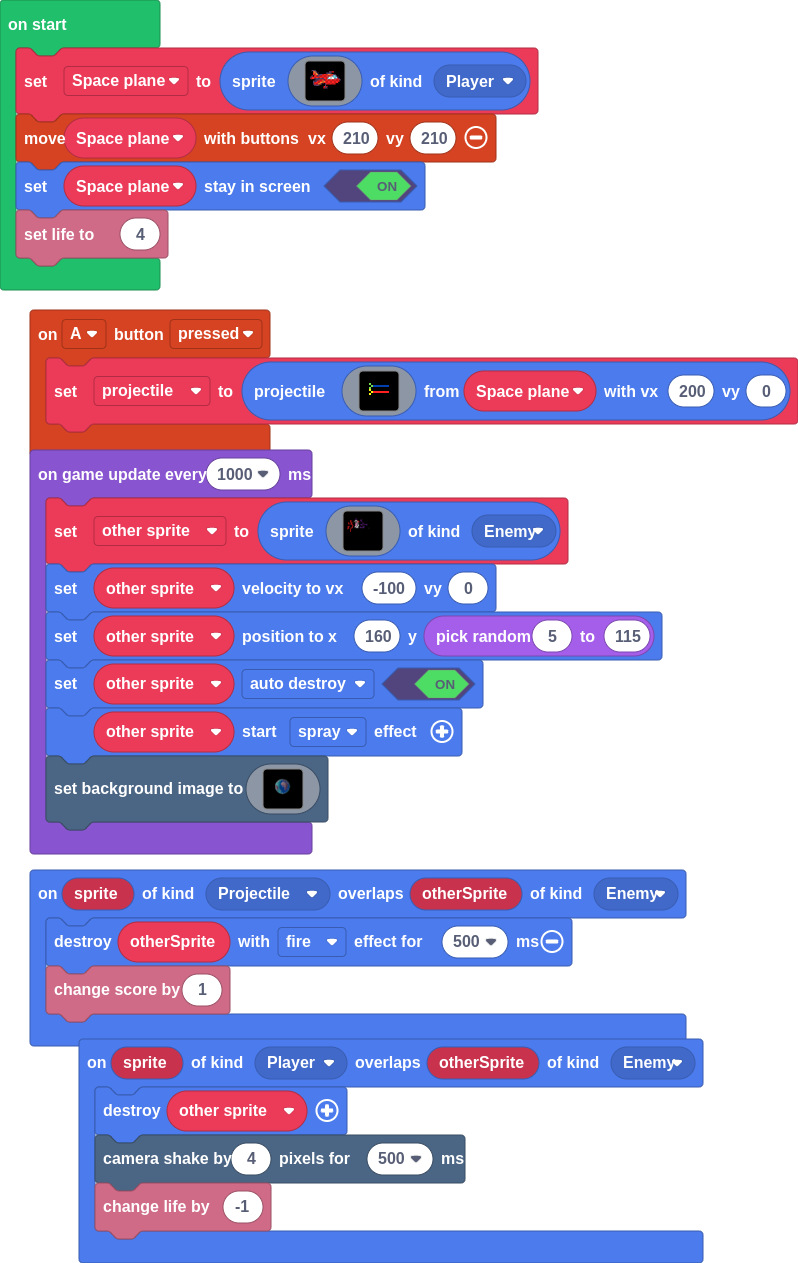
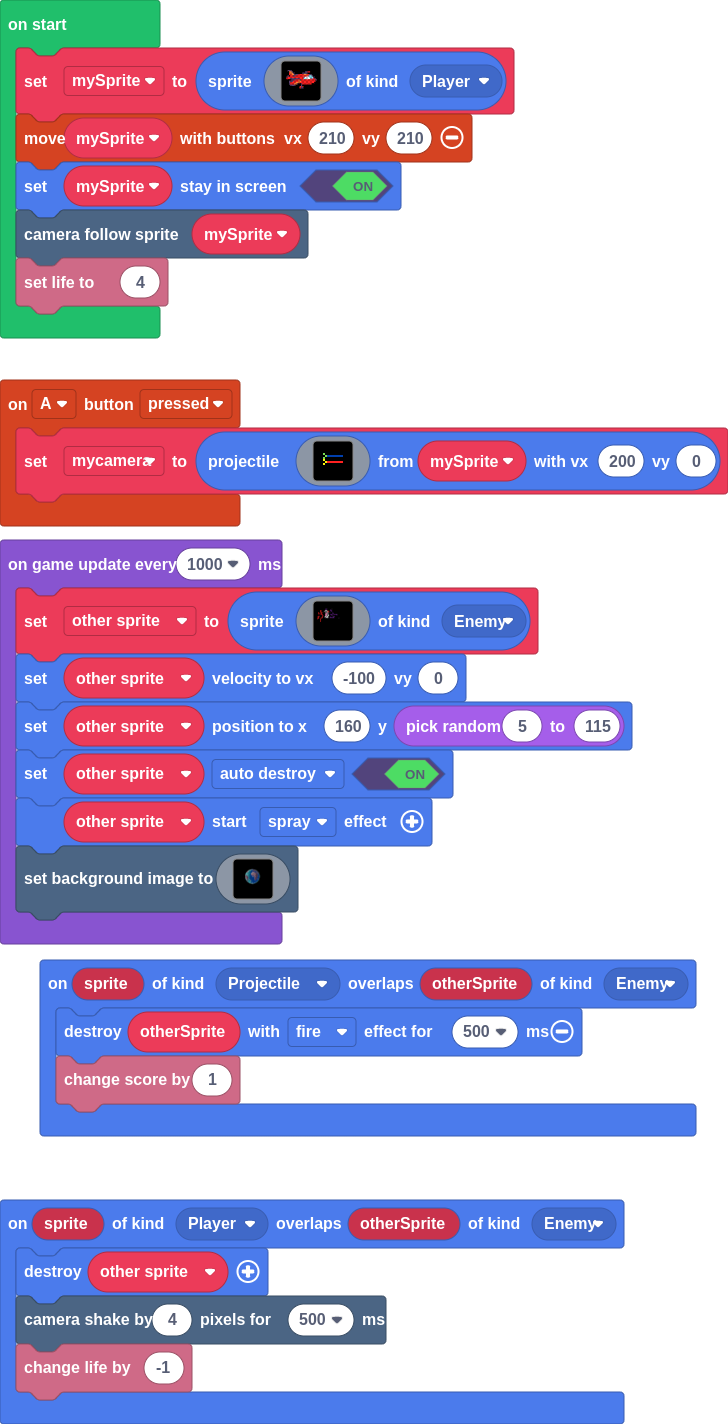
added code

diff --git a/main.ts b/main.ts
@@ -1,5 +1,5 @@
 controller.A.onEvent(ControllerButtonEvent.Pressed, function () {
-    projectile = sprites.createProjectileFromSprite(img`
+    mycamera = sprites.createProjectileFromSprite(img`
         . . . . . . . . . . . . . . . . 
         . . . . . . . . . . . . . . . . 
         . . . . . . . . . . . . . . . . 
@@ -16,7 +16,7 @@ controller.A.onEvent(ControllerButtonEvent.Pressed, function () {
         . . . . . . . . . . . . . . . . 
         . . . . . . . . . . . . . . . . 
         . . . . . . . . . . . . . . . . 
-        `, Space_plane, 200, 0)
+        `, mySprite, 200, 0)
 })
 sprites.onOverlap(SpriteKind.Projectile, SpriteKind.Enemy, function (sprite, otherSprite) {
     otherSprite.destroy(effects.fire, 500)
@@ -28,9 +28,9 @@ sprites.onOverlap(SpriteKind.Player, SpriteKind.Enemy, function (sprite, otherSp
     info.changeLifeBy(-1)
 })
 let other_sprite: Sprite = null
-let projectile: Sprite = null
-let Space_plane: Sprite = null
-Space_plane = sprites.create(img`
+let mycamera: Sprite = null
+let mySprite: Sprite = null
+mySprite = sprites.create(img`
     ..ccc..........ffffff...
     ..f44c.......ffcc22ff...
     ..f244c...fffccccfff....
@@ -48,8 +48,9 @@ Space_plane = sprites.create(img`
     ........ffffff..........
     ........................
     `, SpriteKind.Player)
-controller.moveSprite(Space_plane, 210, 210)
-Space_plane.setStayInScreen(true)
+controller.moveSprite(mySprite, 210, 210)
+mySprite.setStayInScreen(true)
+scene.cameraFollowSprite(mySprite)
 info.setLife(4)
 game.onUpdateInterval(1000, function () {
     other_sprite = sprites.create(img`
